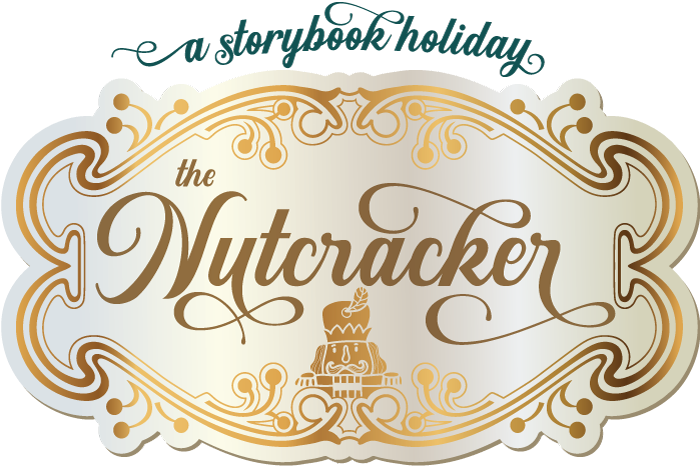
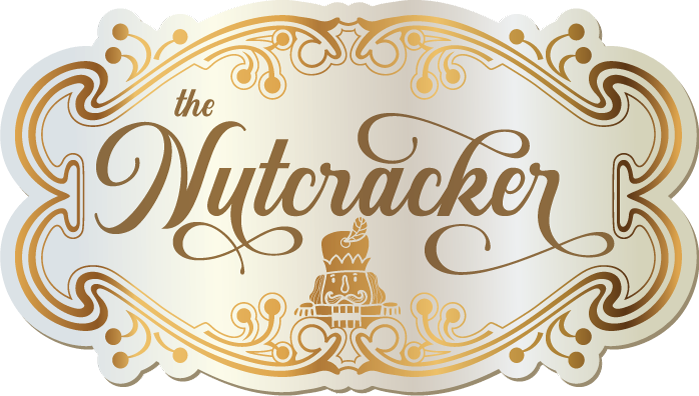
more work

diff --git a/storybook-holiday/index.html b/storybook-holiday/index.html
@@ -88,6 +88,17 @@ e.async=true;var t=document.getElementsByTagName("script")[0];t.parentNode.inser
 .sunshine {
 	font-family: 'Sunshine Script', cursive;
 }
+.sunshine {
+	font-family: 'Sunshine Script', cursive;
+}
+.sunshine.white {
+	font-size: 4em;
+	text-shadow: 0px 3px 0px rgba(0,0,0,.5);
+}
+.sunshine.green {
+	font-size: 4.5em;
+	color: #115252;
+}
 .wrapper-row {
 	background: #1a6d71 url("background.jpg") top center/cover;
 }
@@ -268,33 +279,31 @@ height="0" width="0" style="display:none;visibility:hidden"></iframe>
 </nav>
 <!-- End Mobile Navbar -->
 <div class="container-fluid">
-<div class="row alert-warning">
-  <div id="global-alert" class="container-md" style="display:none;"></div>
-</div>
-<!-- InstanceBeginEditable name="Content" -->
-<div class="row wrapper-row">
-  <div class="container text-center white padding-top-30"><img class="img-responsive image-center" src="nutcraker.png" alt="Storybook Holiday, The Nutcracker">
-    <h4 class="roboto white">Celebrate the holiday season with DCL! Our Lone Tree location will magically transform into the holiday wonderland of The Nutcracker and Clara’s sugar-plum dreams.</h4>
+  <div class="row alert-warning">
+    <div id="global-alert" class="container-md" style="display:none;"></div>
   </div>
-  <div class="container white">
-    <div class="col-md-6 padding-bottom-30">
-      <h1 class="sunshine white text-center">Evening Edition</h1>
-      <div class="large-text text-center text-capitalize font-weight-400">Saturday, December 7, 5-9PM </div>
-      <div>Join us for a holiday party extravaganza! Enjoy a visit with Santa, live performances of your favorite Nutcracker vignettes, music and entertainment, and make-and-take gifts, plus a delectable menu of light dinner bites, hot cocoa concoctions, and other beverages.</div>
-      <div>Tickets: $25 (adults), $20 (ages 3-12)</div>
+  <!-- InstanceBeginEditable name="Content" -->
+  <div class="row wrapper-row">
+    <h1 class="sunshine green text-center no-margin-bottom">a storybook holiday</h1>
+    <div class="container text-center white padding-top-30"><img class="img-responsive image-center" src="nutcraker.png" alt="Storybook Holiday, The Nutcracker">
+      <h4 class="roboto white">Celebrate the holiday season with DCL! Our Lone Tree location will magically transform into the holiday wonderland of The Nutcracker and Clara’s sugar-plum dreams.</h4>
     </div>
-
-
-<div class="col-md-6 padding-bottom-30">
-  <h1 class="sunshine white text-center">Brunch Edition</h1>
-  <h4 class="white text-center">Sunday, December 8, 9-11AM</h4>
-  <div>Our whimsical holiday brunch includes the same festive activities as our evening event, but over brunch. Visit with Santa and enjoy live performances of your favorite Nutcracker pieces, music and entertainment, and make-and-take gifts, plus a delicious menu of brunch bites, hot cocoa concoctions, and other beverages.</div>
-  <div>Tickets: $22 (adults), $18 (ages 3-12)</div>
-	  </div></div>
-</div>
-	
-<!-- InstanceEndEditable -->
-</div>
+    <div class="container white">
+      <div class="col-md-6 padding-bottom-30">
+        <h1 class="sunshine white text-center">Evening Edition</h1>
+        <div class="large-text text-center text-capitalize font-weight-400">Saturday, December 7, 5-9PM </div>
+        <div>Join us for a holiday party extravaganza! Enjoy a visit with Santa, live performances of your favorite Nutcracker vignettes, music and entertainment, and make-and-take gifts, plus a delectable menu of light dinner bites, hot cocoa concoctions, and other beverages.</div>
+        <div>Tickets: $25 (adults), $20 (ages 3-12)</div>
+      </div>
+      <div class="col-md-6 padding-bottom-30">
+        <h1 class="sunshine white text-center">Brunch Edition</h1>
+        <h4 class="white text-center">Sunday, December 8, 9-11AM</h4>
+        <div>Our whimsical holiday brunch includes the same festive activities as our evening event, but over brunch. Visit with Santa and enjoy live performances of your favorite Nutcracker pieces, music and entertainment, and make-and-take gifts, plus a delicious menu of brunch bites, hot cocoa concoctions, and other beverages.</div>
+        <div>Tickets: $22 (adults), $18 (ages 3-12)</div>
+      </div>
+    </div>
+  </div>
+  <!-- InstanceEndEditable --> </div>
 <div class="social-footer bg-gray-10 padding-top-15 padding-bottom-20">
   <div class="bg-gray-10 clearfix padding-bottom-20">
     <div class="col-sm-6">
